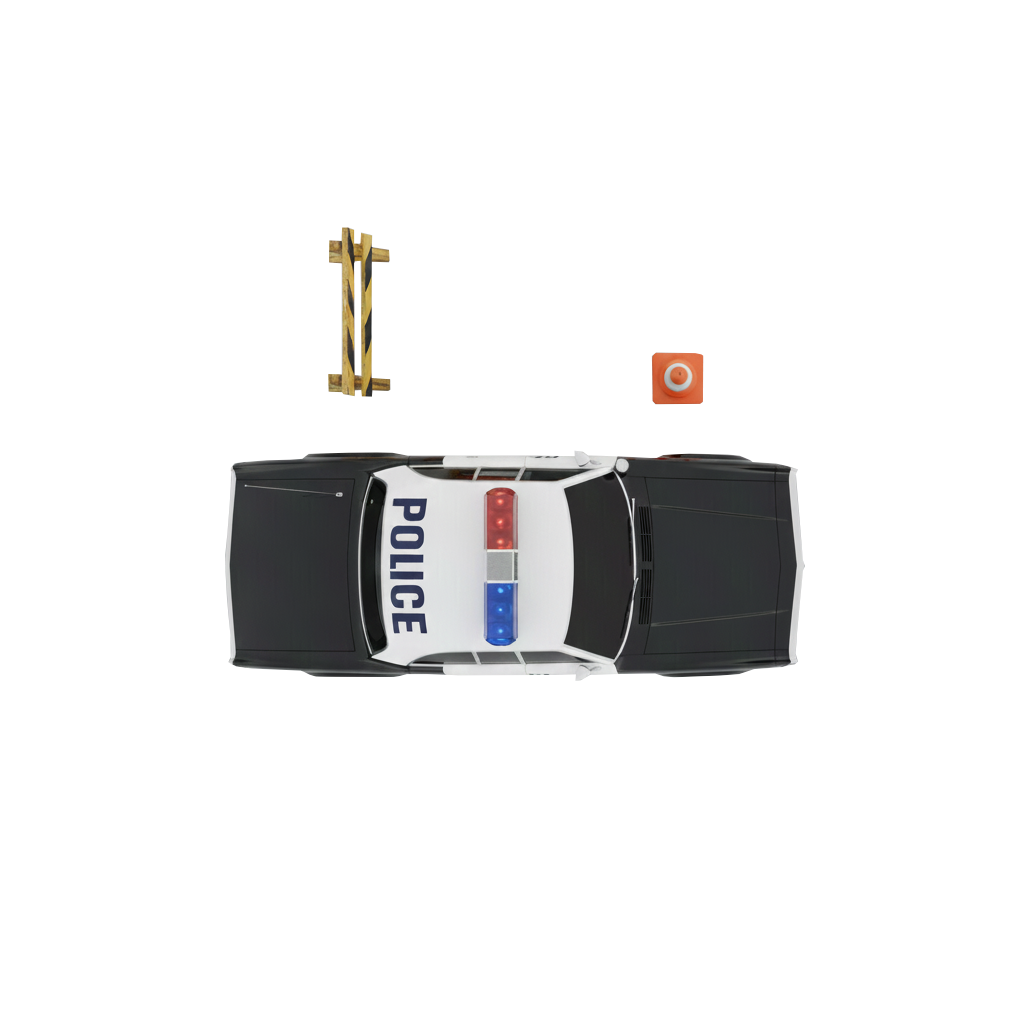
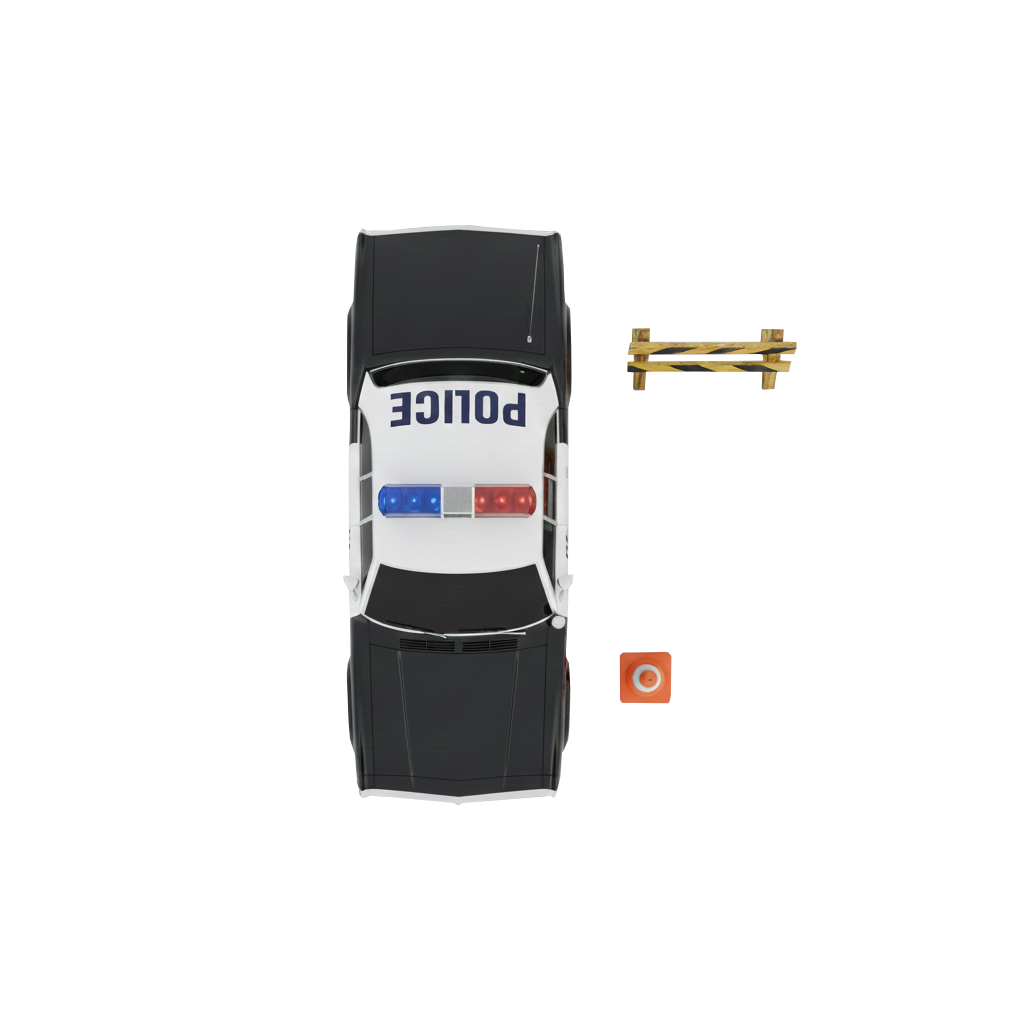
Snelheid verhoogd, controls verbeterd, betere obstakels

Changed region(s): [[0.2188, 0.2188, 0.7812, 0.7812], [0.5938, 0.3125, 0.7812, 0.4062]]

diff --git a/Javascript/model/game.js b/Javascript/model/game.js
@@ -17,8 +17,8 @@ class Model {
     }
 
     reset() {
-        this.playerLane = 1; // middle lane
-        this.lanesY = [50, 170, 290]; // 3 fixed lanes
+        this.playerLane = 1; // middelste baan start positie
+        this.lanesY = [50, 170, 290]; // 3 gefixde banen
         this.playerX = 120;
         this.playerWidth = 70;
         this.playerHeight = 50;
@@ -32,25 +32,35 @@ class Model {
     }
 
     spawnObstacle() {
-        const types = ["CopBarricade", "CopBarricade2", "Copbarricade3", "Stop"];
+        const types = ["CopBarricade", "CopBarricade2", "CopBarricade3", "CopBarricade4", "CopBarricade5", "Stop"];
         const pick = types[Math.floor(Math.random() * types.length)];
 
         if (pick === "CopBarricade") {
-            this.obstacles.push(new Obstacle("CopBarricade", 0, 800, 4));
-        }
-
-        else if (pick === "CopBarricade3") {
-            this.obstacles.push(new Obstacle("CopBarricade3", 1, 800, 4))
+            this.obstacles.push(new Obstacle("CopBarricade", 0, 800, 20));
         }
 
         else if (pick === "CopBarricade2") {
-            this.obstacles.push(new Obstacle("CopBarricade2", 2, 800, 4));
+            this.obstacles.push(new Obstacle("CopBarricade2", 2, 800, 20));
         }
-        
+
+        else if (pick === "CopBarricade3") {
+            this.obstacles.push(new Obstacle("CopBarricade2", 1, 800, 20))
+        }
+
+        else if (pick === "CopBarricade4") {
+            this.obstacles.push(new Obstacle("CopBarricade", 0, 800, 20))
+            this.obstacles.push(new Obstacle("CopBarricade2", 1, 800, 20));
+        }
+
+        else if (pick === "CopBarricade5") {
+            this.obstacles.push(new Obstacle("CopBarricade", 1, 800, 20))
+            this.obstacles.push(new Obstacle("CopBarricade2", 2, 800, 20));
+        }
+
         else if (pick === "Stop") {
-            this.obstacles.push(new Obstacle("CopBarricade", 0, 800, 4, true));
-            this.obstacles.push(new Obstacle("Stop", 1, 800, 4, false));
-            this.obstacles.push(new Obstacle("CopBarricade2", 2, 800, 4, true));
+            this.obstacles.push(new Obstacle("CopBarricade", 0, 800, 20, true));
+            this.obstacles.push(new Obstacle("Stop", 1, 800, 20, false));
+            this.obstacles.push(new Obstacle("CopBarricade2", 2, 800, 20, true));
         }
     }
 

diff --git a/game.html b/game.html
@@ -1,0 +1,37 @@
+<!DOCTYPE html>
+<html lang="nl">
+
+<head>
+    <meta charset="UTF-8" />
+    <meta name="viewport" content="width=device-width, initial-scale=1.0" />
+    <title>Auto Adrenaline</title>
+    <link rel="stylesheet" href="css/style.css" />
+</head>
+
+<body>
+     <img class="AALO" src="/Assets/Auto-Adrenaline.png" alt="Auto-Adrenaline-Game-Logo">
+    <div class="game-container">
+        <canvas id="game-canvas" width="800" height="400"></canvas>
+    </div>
+    <div id="ui">
+        <button id="start-btn">Start</button>
+        <button id="restart-btn" class="hidden">Opnieuw</button>
+        <div id="score">Score: 0</div>
+
+        <div id="controls">
+            <p>Gebruik W, S of de buttons om omhoog en omlaag te gaan om politie te vermijden!
+            </p>
+            <button id="btn-up">Up</button>
+            <button id="btn-down">Down</button>
+        </div>
+    </div>
+    
+
+    <!-- Scripts -->
+    <script src="Javascript/model/game.js"></script>
+    <script src="Javascript/view/view.js"></script>
+    <script src="Javascript/controller/controller.js"></script>
+    <script src="Javascript/start.js"></script>
+</body>
+
+</html>

diff --git a/index.html b/index.html
@@ -1,32 +1,11 @@
 <!DOCTYPE html>
-<html lang="nl">
+<html lang="en">
 <head>
-    <meta charset="UTF-8" />
-    <meta name="viewport" content="width=device-width, initial-scale=1.0" />
-    <title>Auto Adrenaline</title>
-    <link rel="stylesheet" href="css/style.css" />
+    <meta charset="UTF-8">
+    <meta name="viewport" content="width=device-width, initial-scale=1.0">
+    <title>Document</title>
 </head>
-
 <body>
-    <div id="ui">
-        <button id="start-btn">Start</button>
-        <button id="restart-btn" class="hidden">Opnieuw</button>
-        <div id="score">Score: 0</div>
-
-        <div id="controls">
-            <button id="btn-up">Up</button>
-            <button id="btn-down">Down</button>
-        </div>
-    </div>
-
-    <div id="game-container">
-        <canvas id="game-canvas" width="800" height="400"></canvas>
-    </div>
-
-    <!-- Scripts -->
-    <script src="Javascript/model/game.js"></script>
-    <script src="Javascript/view/view.js"></script>
-    <script src="Javascript/controller/controller.js"></script>
-    <script src="Javascript/start.js"></script>
+    
 </body>
 </html>

diff --git a/CSS/style.css b/CSS/style.css
@@ -4,6 +4,12 @@
     box-sizing: border-box;
 }
 
+:root {
+    --background-color-button: orange;
+    --color-button: black;
+    --background-color-main: #333; 
+}
+
 body {
     margin: 0;
     background: #111;
@@ -34,10 +40,10 @@ button.hidden {
     display: none;
 }
 
-#game-container {
+.game-container {
     margin-top: 20px;
     border: 3px solid #444;
-    background: #222;
+    background-color: #333;
 }
 
 #controls {
@@ -53,3 +59,5 @@ canvas {
     background: #333;
     display: block;
 }
+
+

diff --git a/Javascript/controller/controller.js b/Javascript/controller/controller.js
@@ -10,6 +10,7 @@ class Controller {
     startGame() {
         this.model.reset();
         this.model.gameRunning = true;
+        this.model.lastSpawnTime = performance.now() + 1000;
         this.loop(0);
     }
 
@@ -17,6 +18,7 @@ class Controller {
         this.model.reset();
         this.model.gameRunning = true;
         document.getElementById("restart-btn").classList.add("hidden");
+        this.model.lastSpawnTime = performance.now() + 1000;
         this.loop(0);
     }
 

diff --git a/Javascript/start.js b/Javascript/start.js
@@ -21,7 +21,12 @@ window.addEventListener("load", () => {
     });
 
     document.addEventListener("keydown", (e) => {
-        if (e.key === "ArrowUp") controller.moveUp();
-        if (e.key === "ArrowDown") controller.moveDown();
-    });
+    if (e.key === "w" || e.key === "W") {
+        controller.moveUp();
+    }
+    if (e.key === "s" || e.key === "S") {
+        controller.moveDown();
+    }
+});
+
 });

diff --git a/Javascript/view/view.js b/Javascript/view/view.js
@@ -11,6 +11,7 @@ class View {
 
     loadAssets() {
         this.loadImage("player", "Assets/Player1Car.png");
+        this.loadImage("player2", "Assets/Player2Car.png");
         this.loadImage("CopBarricade", "Assets/CopBarricade.png");
         this.loadImage("CopBarricade2", "Assets/CopBarricade2.png");
         this.loadImage("CopBarricade3", "Assets/CopBarricade3.png");
